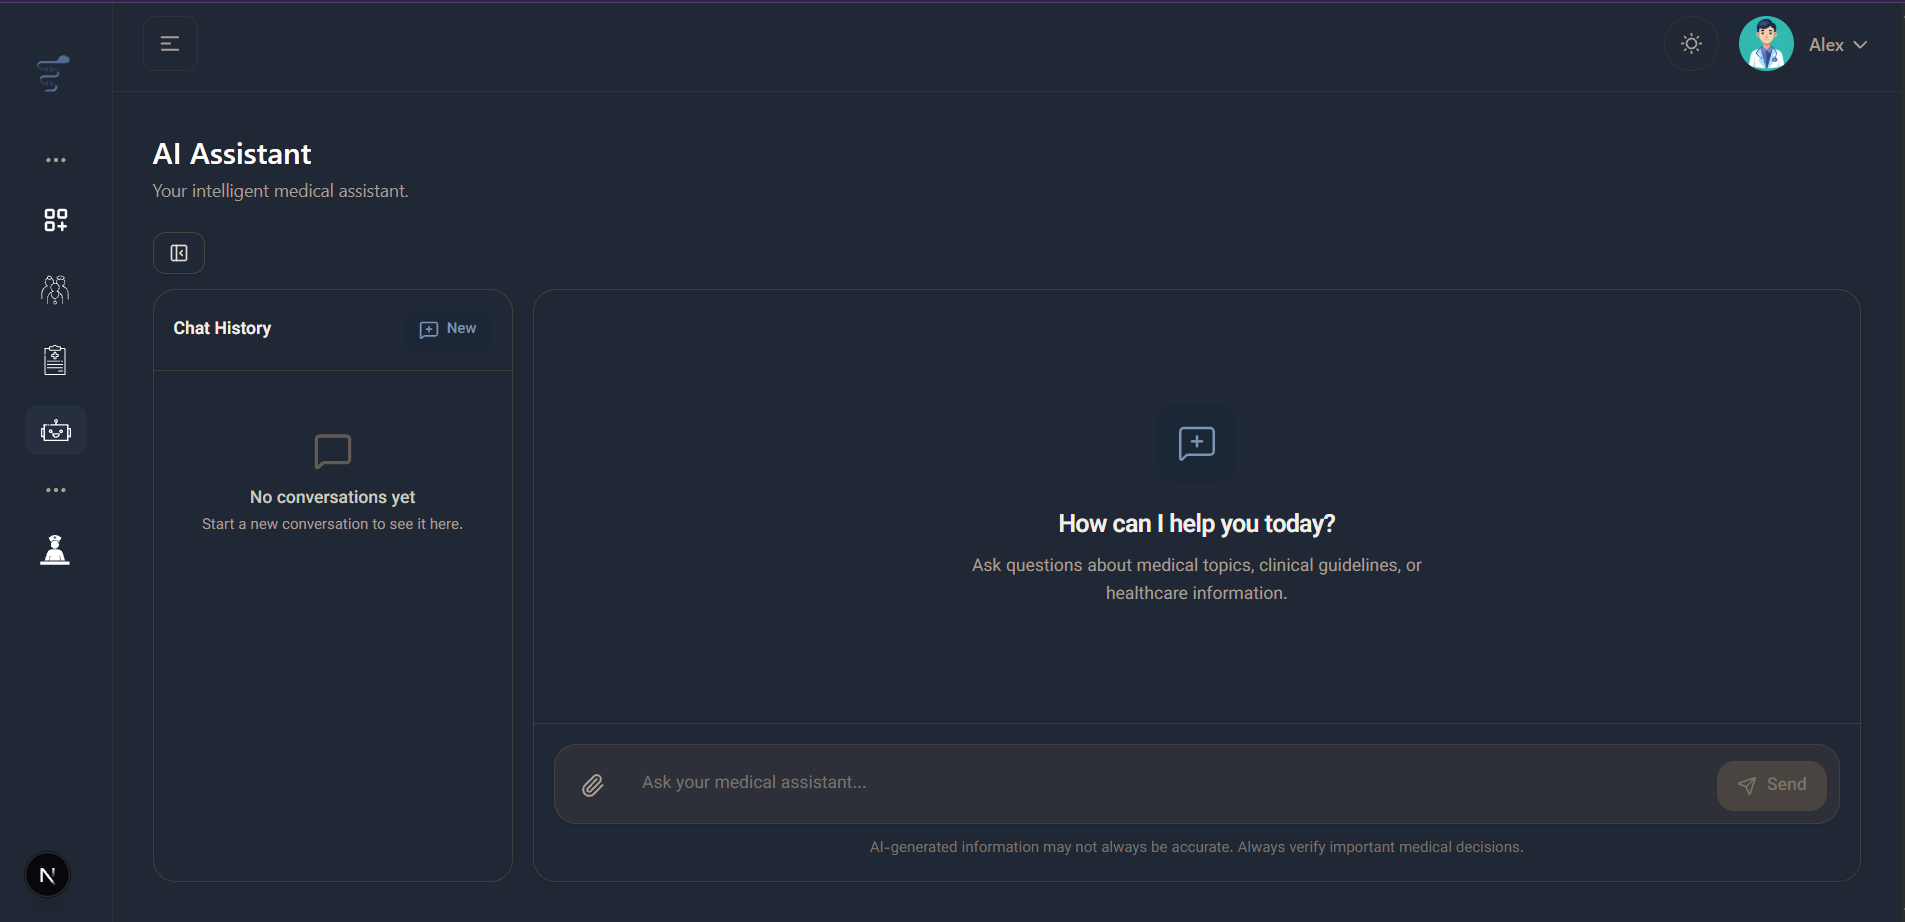
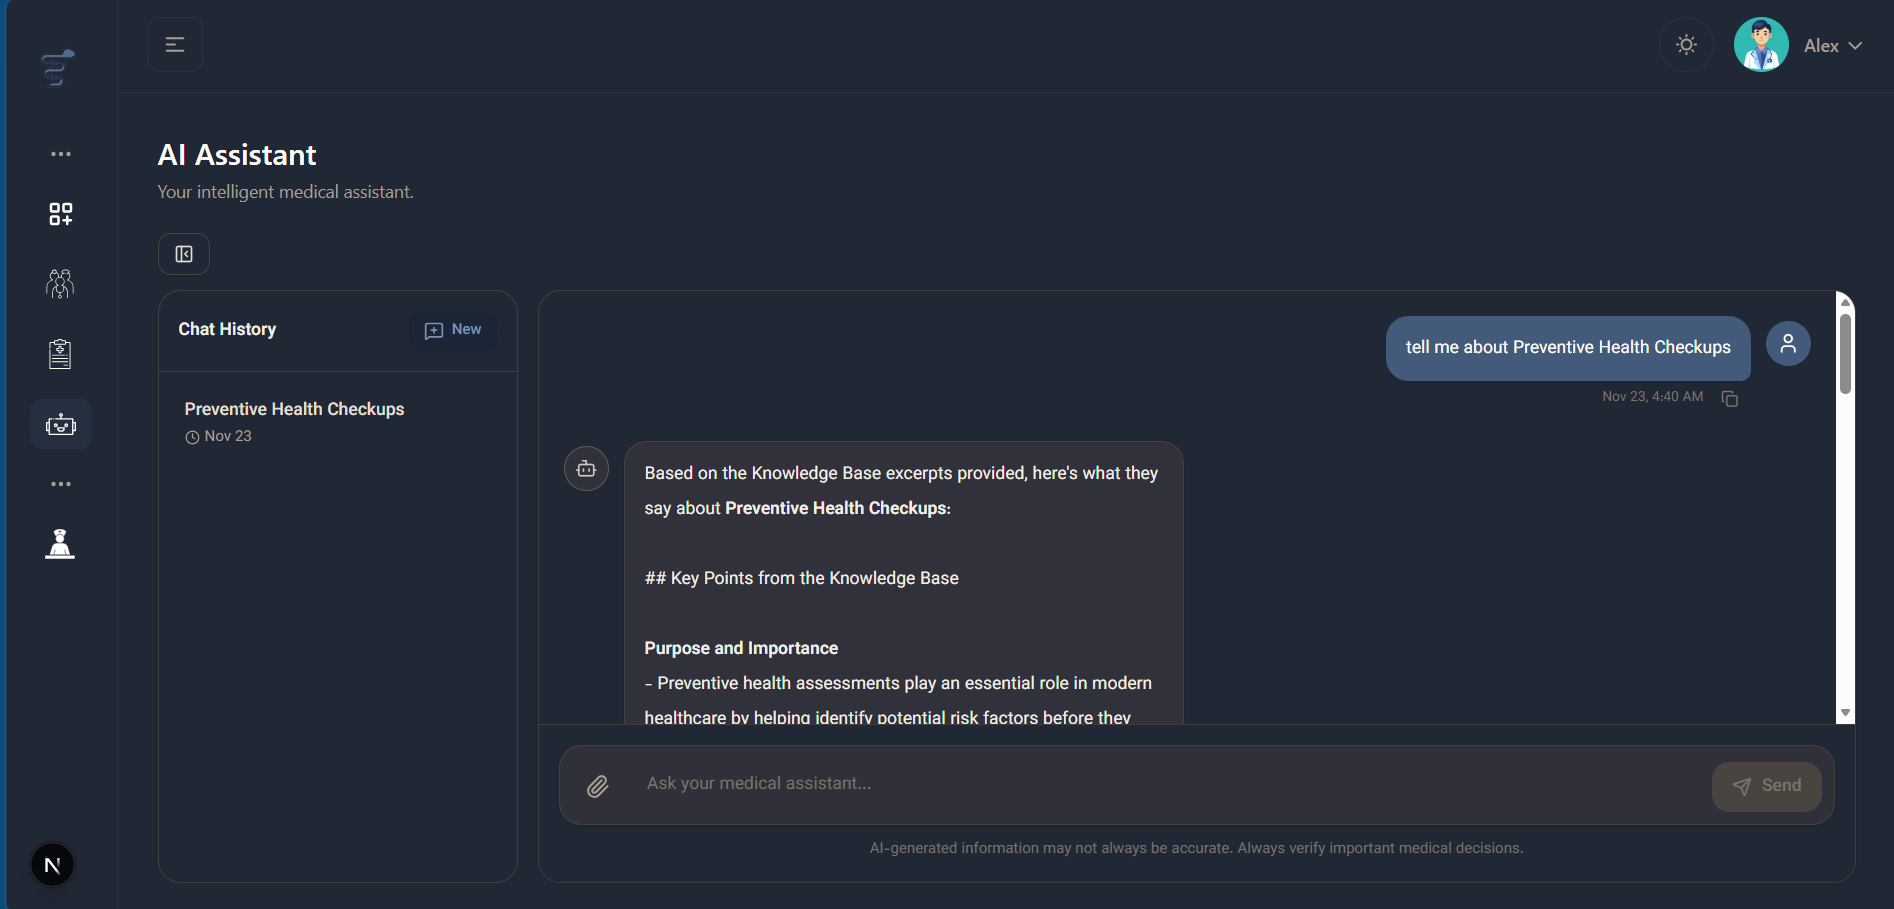
docs: add application screenshots to README

diff --git a/README.md b/README.md
@@ -99,6 +99,23 @@ AI-generated content is informational and should not be considered a medical dia
 
 ---
 
+## Screenshots
+
+### Patients
+![Patients](docs-screenshots/patients.png)
+
+### Doctors
+![Doctors](docs-screenshots/doctors.png)
+
+### AI Assistant
+![AI Assistant](docs-screenshots/ai-assistant.png)
+
+### Knowledge Base
+![Knowledge Base](docs-screenshots/knowledge-base.png)
+
+### Analytics
+![Analytics](docs-screenshots/analytics.png)
+
 ## 🏗 Architecture
 
 The project follows a feature-based architecture with separate frontend and backend applications.
